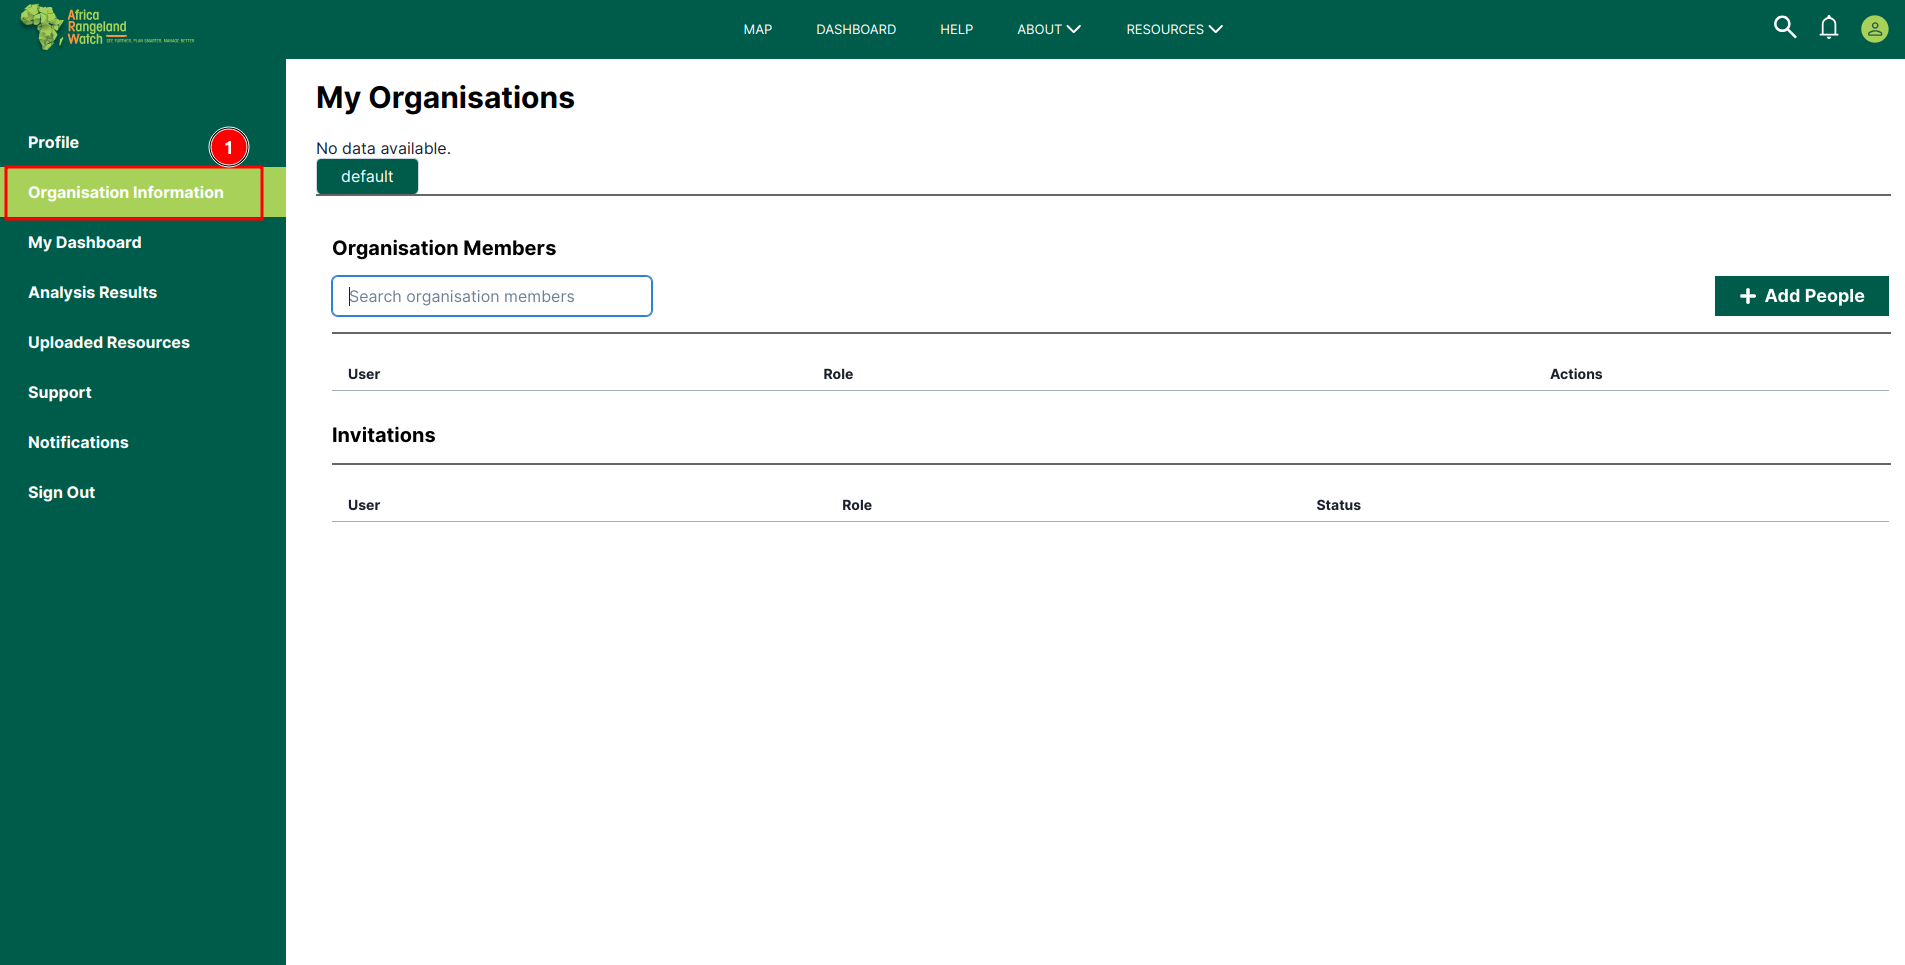
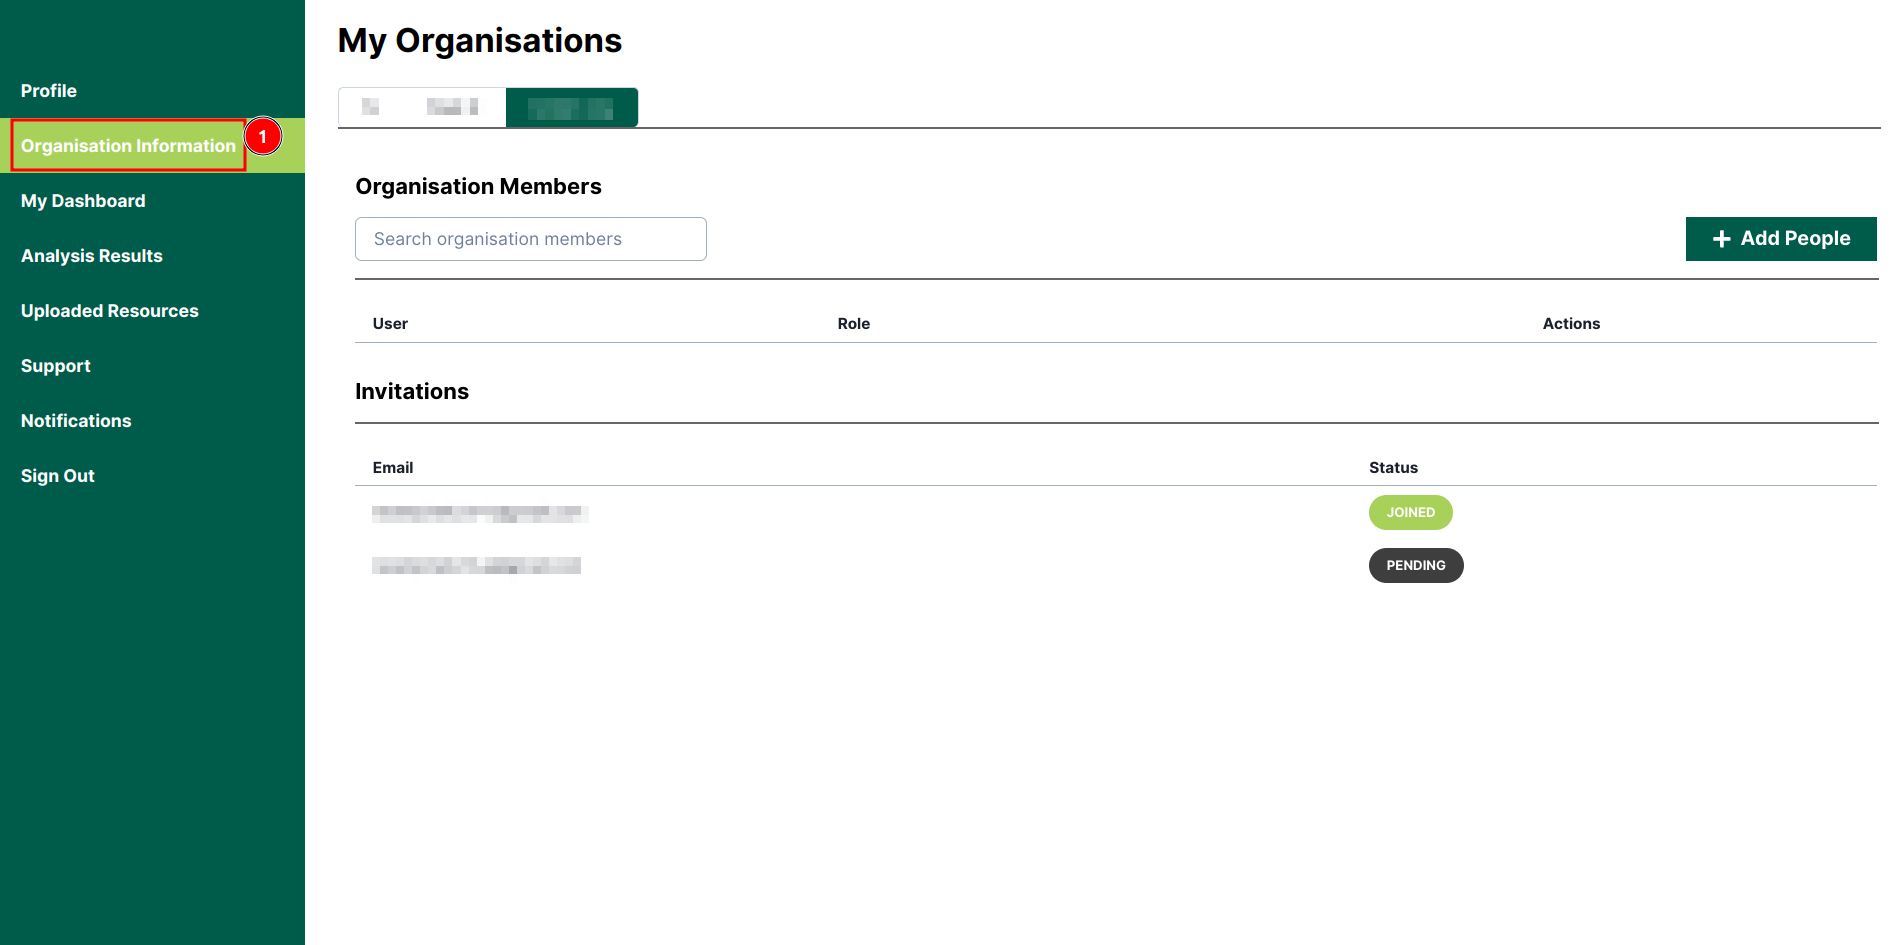
Add social auth docs

Changed region(s): [[0.0, 0.0, 1.0, 1.0], [0.0, 0.0, 0.0934, 0.0614], [0.4359, 0.5217, 0.467, 0.5524]]

diff --git a/docs/src/user/guide/sign-in.md b/docs/src/user/guide/sign-in.md
@@ -40,11 +40,31 @@ User can also use 1⃣ other accounts like google, github and apple to sign-i
 
 [![Sign in Other Accounts](./img/guide-signin-img-4.png)](./img/guide-signin-img-4.png)
 
-## Forgot Password
+### How to sign in using google
+
+Click on this 1⃣ `Google` button to sign in using your google account.
+
+[![Sign-in Form](./img/guide-signin-img-10.png)](./img/guide-signin-img-10.png)
+
+### How to sign in using github
+
+>Note: For the first time you have to authorise the app to access your github account.
+
+Click on the 1⃣ `Github` icon to sign-in using your github account.
+
+[![Sign-in Form](./img/guide-signin-img-7.png)](./img/guide-signin-img-7.png)
+
+Click on the 1⃣ `Cancel` button to cancel the process, or click on the 2⃣ `Authorise` button to complete the process.
+
+[![Github Login](./img/guide-signin-img-8.png)](./img/guide-signin-img-8.png)
+
+Enter your 1⃣`Password` and click on the 3⃣`Confirm` button to complete the process. In case you forgot your password, click on the 2⃣`Forgot Password` link to reset it.
+
+[![Confirm Access](./img/guide-signin-img-9.png)](./img/guide-signin-img-9.png)
 
 ### How to reset password:
 
-If you forgot your password, you can reset it by clicking on the 1⃣ `forgot Password`.This will open a new form.
+If you forgot your password, you can reset it by clicking on the 1⃣ `forgot Password`. This will open a new form.
 
 [![Forgot Password](./img/guide-signin-img-5.png)](./img/guide-signin-img-5.png)
 

diff --git a/docs/src/user/manual/sign-up.md b/docs/src/user/manual/sign-up.md
@@ -66,4 +66,40 @@ Here are two options to sign up for a new account:
 
 5. **x:** By clicking on this button users can close the form.
 
+## Sign-up using google
+
+[![Sign-in Form](./img/signup-img-8.png)](./img/signup-img-8.png)
+
+1. **Google:** Click on this icon to sign up using Google.
+
+[![Choose Account](./img/signup-img-9.png)](./img/signup-img-9.png)
+
+1. **Account:** Click on the account to sign up.
+
+2. **Use another account:** If the user wants to use another account, they can click on this link.
+
+[![Confirmation](./img/signup-img-10.png)](./img/signup-img-10.png)
+
+1. **Account:** Users can see there current selected account.
+
+2. **Cancel:** Click on this button to cancel the sign up process.
+
+3. **Continue:** Click on this button to continue the sign up process.
+
+* After clicking on the `Continue` button, the user will be redirected to the `ARW` profile page.
+
+## Sign-up using github
+
+[![Sign-up Form](./img/signup-img-11.png)](./img/signup-img-11.png)
+
+1. **Github:** Click on this icon to sign up using Github.
+
+[![Github Authorise](./img/signup-img-12.png)](./img/signup-img-12.png)
+
+1. **Cancel:** Click on this button to cancel the sign up process.
+
+2. **Authorise:** Click on this button to authorise the sign up process.
+
+* After completing the sign up process, the users will be redirected to the `ARW` home page.
+
 - Click on the [signing](./sign-in.md) to see the signing process.

diff --git a/docs/src/user/manual/sign-in.md b/docs/src/user/manual/sign-in.md
@@ -48,3 +48,33 @@ Welcome to the ARW sign-in user manual. This guide provides step-by-step instruc
 7. **x:** Click on the `x` button to close the sign-in form.
 
 * To see how to create an account click on the [Sign-up](./sign-up.md)
+
+## Sign-in using Google
+
+[![Sign-in Form](./img/signin-img-4.png)](./img/signin-img-4.png)
+
+1. **Google:** Click on the `Google` icon to sign in with the `Google` account.
+
+## Sign-in using Github
+
+>Note: For the first time users are required to follow these steps.
+
+[![Sign-in Form](./img/signin-img-5.png)](./img/signin-img-5.png)
+
+1. **Github:** Click on the `Github` icon to sign in with the `Github` account.
+
+[![Github Access](./img/signin-img-6.png)](./img/signin-img-6.png)
+
+1. **Cancel:** Click on the `Cancel` button to cancel the sign-in process.
+
+2. **Authorize:** Click on the `Authorize` button to authorize the `Github` account.
+
+[![Confirm Access](./img/signin-img-7.png)](./img/signin-img-7.png)
+
+1. **Password:** Users are required to enter their github password to confirm the access.
+
+2. **Forgot Password:** If the user forgets their password, click on the `Forgot Password` link to reset it.
+
+3. **Confirm:** Click on the `Confirm` button to confirm the access.
+
+After confirming the access, the user will be redirected to the ARW home page.

diff --git a/docs/src/user/manual/Organisation-information.md b/docs/src/user/manual/Organisation-information.md
@@ -4,7 +4,7 @@
 
 1. **Organisation Information:** Clicking on this tab allows users to access the organisation's information page.
 
-2. **Defaults:** Displays the default data.
+2. **Organisation Name:** Displays the name of the organisations.
 
 3. **Organisation Member:** Displays the organisation member's information.
 
@@ -12,5 +12,22 @@
 
 5. **Add People:** Allows users to add new people to the organisation.
 
-6. **Invitations:** Displays the organisation's invitations.
+    [![Add People Form](./img/organisation-info-img-2.png)](./img/organisation-info-img-2.png)
 
+    1 **Organisation Name:** Displays the name of the organisation.
+    
+    2 **Invitee Email:** Enter the email of the person to be added.
+
+    3 **Custom Message:** Enter a custom message to be sent to the invitee.
+
+    4 **Cancel:** Cancels the invitation.
+
+    5 **Invite:** Sends the invitation to the invitee.  
+
+6. **Invitations:** Displays the invitations sent to the organisation.
+
+7. **Status:** Status Contains the status of the invitations.
+
+    * **Joined:** It shows that the invitation has been accepted.
+
+    * **PENDING:** It shows that the invitation is pending and needs to be reviewed.

diff --git a/docs/src/user/guide/Organisation-information.md b/docs/src/user/guide/Organisation-information.md
@@ -9,3 +9,13 @@ Click on the 1⃣ `Organisation Information` from the left navigation bar to 
 ### Default Organisations
 
 ### How to Add Organisation Members
+
+Enter the 1⃣ Email address of the person you wish to add as a member of the organisation. You can also include a 2⃣ Custom Message. To cancel the process, click on the 3⃣ Cancel button. Otherwise, click on the 4⃣ Invite button to send the invitation.
+
+[![Add Member Form](./img/guide-organisation-img-2.png)](./img/guide-organisation-img-2.png)
+
+### Invitations
+
+You can view the list of individuals requested to join the organisation in the 1⃣ `Invitation` section. This includes their 2⃣ `Emails` and corresponding 3⃣ `Status`. If the organisation manager accepts the invitation, the status will update to `Joined` otherwise, it will remain as `Pending`.
+
+[![Invitations](./img/guide-organisation-img-3.png)](./img/guide-organisation-img-3.png)

diff --git a/docs/src/user/guide/sign-up.md b/docs/src/user/guide/sign-up.md
@@ -57,3 +57,19 @@ Here is the sign-up form.
 [![Sign up Other Accounts](./img/guide-signup-img-5.png)](./img/guide-signup-img-5.png)
 
 * If you already have an account and you want to sign-in please click [here](./sign-in.md).
+
+#### How to sign-up using google
+
+Click on the 1⃣ `Google` button. This will open a new window. You will be asked to choose your account.
+
+[![Sign-up Form](./img/guide-signup-img-9.png)](./img/guide-signup-img-9.png)
+
+To know the further process click [here](../manual/sign-up.md#sign-up-using-google).
+
+#### How to sign-up using github
+
+Click on the 1⃣ `GitHub` button. This will open a new window.
+
+[![Sign-up Form](./img/guide-signup-img-10.png)](./img/guide-signup-img-9.png)
+
+For the further process click [here](../manual/sign-up.md#sign-up-using-github).
